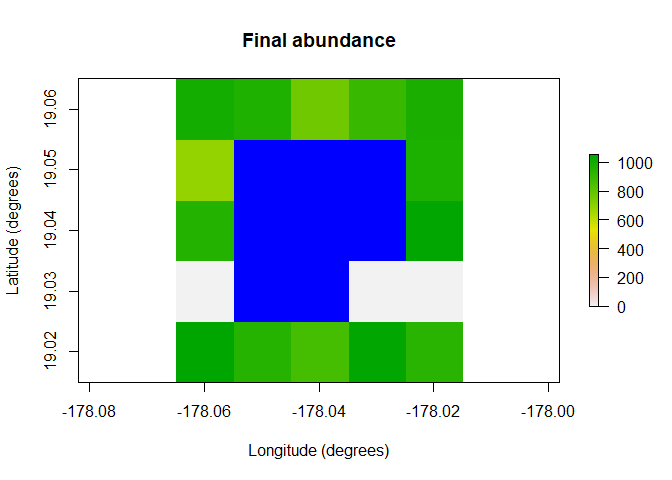
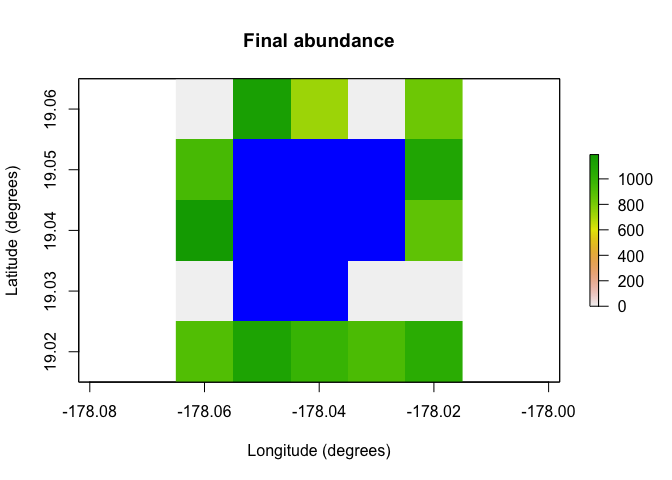
Updated Github Actions
I'm now checking the package on more R versions.

diff --git a/README.md b/README.md
@@ -1,14 +1,17 @@
 
 <!-- README.md is generated from README.Rmd. Please edit that file -->
 
-# paleopop
+# paleopop <img src='man/figures/logo.png' align="right" height="125" />
 
 <!-- badges: start -->
 
+[![Paper_doi](https://img.shields.io/badge/doi-10.1111/geb.13601-orange.svg)](https://doi.org/10.1111/geb.13601)
 [![R-CMD-check](https://github.com/GlobalEcologyLab/paleopop/workflows/R-CMD-check/badge.svg)](https://github.com/GlobalEcologyLab/paleopop/actions)
 [![CRAN
 status](https://www.r-pkg.org/badges/version/paleopop)](https://CRAN.R-project.org/package=paleopop)
-[![Download\_count](https://cranlogs.r-pkg.org/badges/grand-total/paleopop)](https://CRAN.R-project.org/package=paleopop)
+[![Download_count](https://cranlogs.r-pkg.org/badges/grand-total/paleopop)](https://CRAN.R-project.org/package=paleopop)
+[![Last
+commit](https://img.shields.io/github/last-commit/GlobalEcologyLab/paleopop.svg)](https://github.com/GlobalEcologyLab/paleopop/commits/master)
 <!-- badges: end -->
 
 `paleopop` is an extension to `poems`, a spatially-explicit,
@@ -113,23 +116,23 @@ results <- paleopop_simulator(model_template)
 results # examine
 #> $abundance
 #>       [,1] [,2] [,3] [,4] [,5] [,6] [,7] [,8] [,9] [,10]
-#>  [1,]   39   74  150  252  424  666  667  766  871   995
-#>  [2,]  117  229  374  528  670  930  777  878  832   963
-#>  [3,] 1345 1063  913  938 1006  846  764  967  801   765
-#>  [4,]   27   63   99  171  315  531  825  905 1081   898
-#>  [5,]  382  532  707  846  979  940 1065  931 1023   977
-#>  [6,]  523  715  876 1062 1113 1092 1355 1377  922   684
-#>  [7,]  739  906  872  916 1183 1164 1086 1047  918   972
-#>  [8,] 1238 1230 1400 1011 1093 1209 1184 1208 1007   953
-#>  [9,] 1178 1100  954  999  916  831  745  881  928  1049
+#>  [1,]    0    0    0    0    0    0    0    0    0     0
+#>  [2,]   39   84  154  263  404  541  763  740  925  1144
+#>  [3,]   20   48   88  166  249  388  488  620  633   728
+#>  [4,]    0    0    0    0    0    0    0    0    0     0
+#>  [5,]  220  297  461  641  879  983  908  936 1095   831
+#>  [6,]  398  555  747  776 1076  896  939  912  984   936
+#>  [7,]  726  820 1007 1053 1068 1063  857  865  982  1096
+#>  [8,] 1189  778  856  856  939  871  826  927  996  1191
+#>  [9,] 1174  979  806  928  931  997  938  923  980   866
 #> [10,]    0    0    0    0    0    0    0    0    0     0
 #> [11,]    0    0    0    0    0    0    0    0    0     0
 #> [12,]    0    0    0    0    0    0    0    0    0     0
-#> [13,]  450  615  682  811  852 1035  984  951 1042  1055
-#> [14,]  174  258  377  603  779  889  934  978  974   942
-#> [15,]  600  805  948  919  887  926 1043  867 1003   866
-#> [16,] 1313  882 1015 1052 1020  964  925 1003 1008  1049
-#> [17,]  904 1035  983 1154 1043  887  907 1043  969   940
+#> [13,]  157  288  474  658  806  843  930  951  959   905
+#> [14,]  252  405  606  792  882  976 1011 1130 1113  1113
+#> [15,]  113  209  344  468  633  808  842 1120 1189   990
+#> [16,]  691  746  994  783  843  922  958  915 1101   922
+#> [17,]  540  729  937  930  862  915  895  758  958  1039
 raster::plot(region$raster_from_values(results$abundance[,10]),
              main = "Final abundance", xlab = "Longitude (degrees)", 
              ylab = "Latitude (degrees)", colNA = "blue")
@@ -139,3 +142,13 @@ raster::plot(region$raster_from_values(results$abundance[,10]),
 
 A practical example of how to use `paleopop`, with more complex
 parameterization, can be found in the vignette.
+
+## Citation
+
+You may cite `paleopop` in publications using our software paper in
+*Global Ecology and Biogeography*:
+
+Pilowsky, J. A., Haythorne, S., Brown, S. C., Krapp, M., Armstrong, E.,
+Brook, B. W., Rahbek, C., & Fordham, D. A. (2022). Range and extinction
+dynamics of the steppe bison in Siberia: A pattern‐oriented modelling
+approach. *Global Ecology and Biogeography*, *31*(12), 2483-2497.
